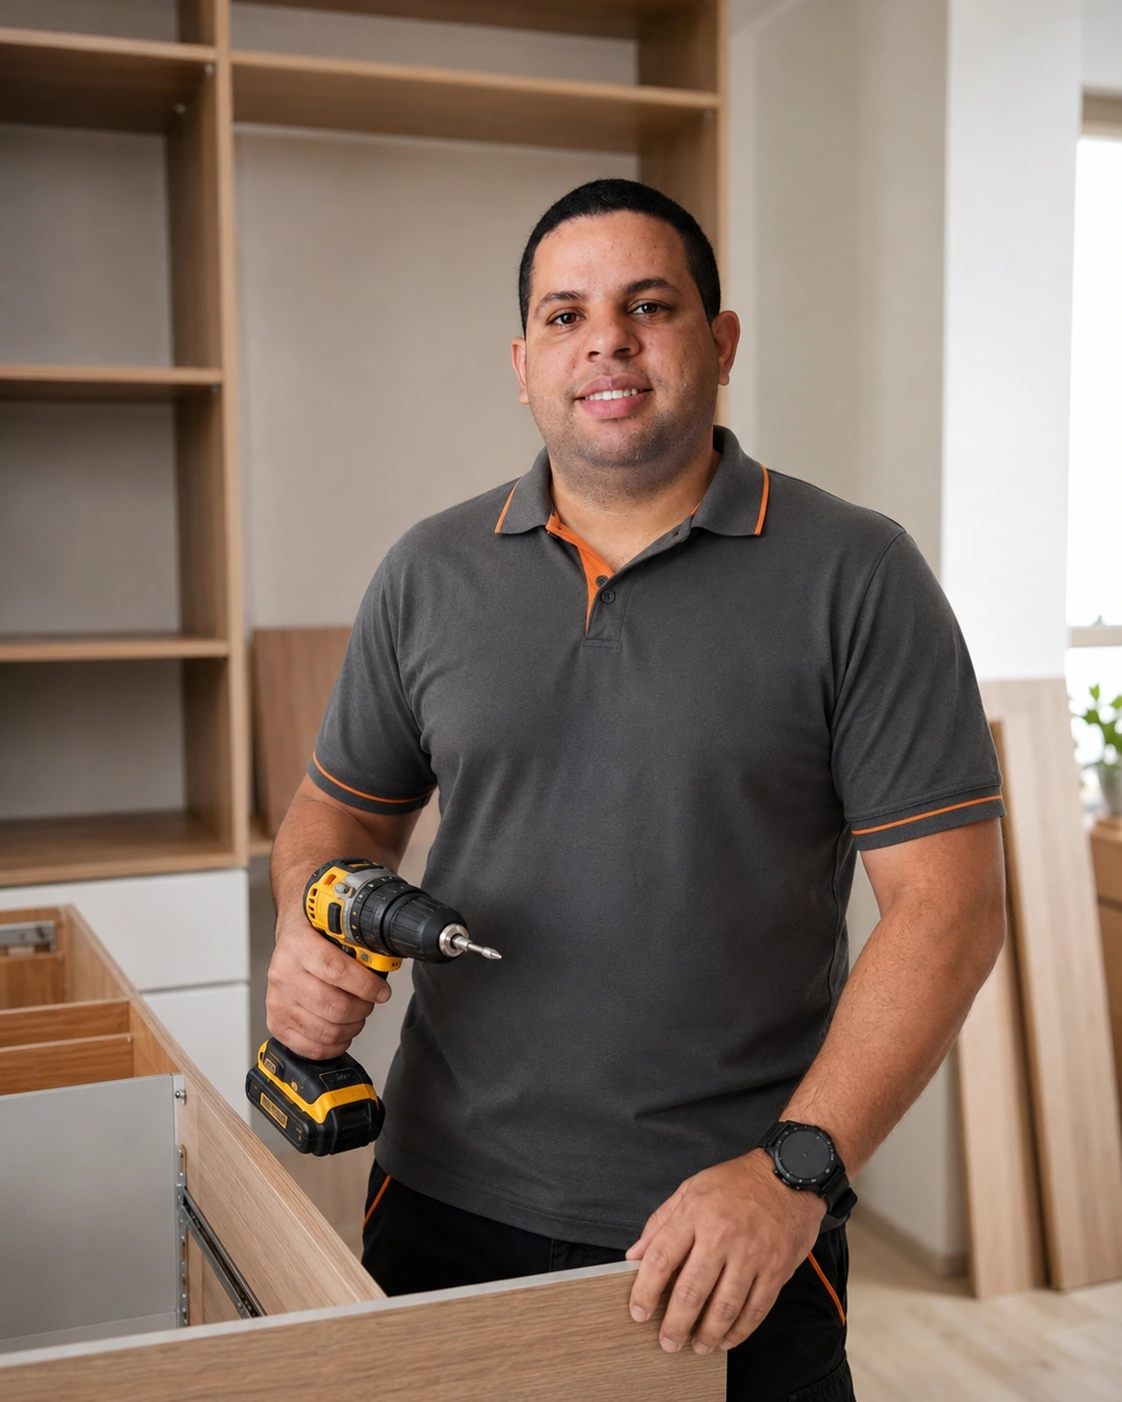
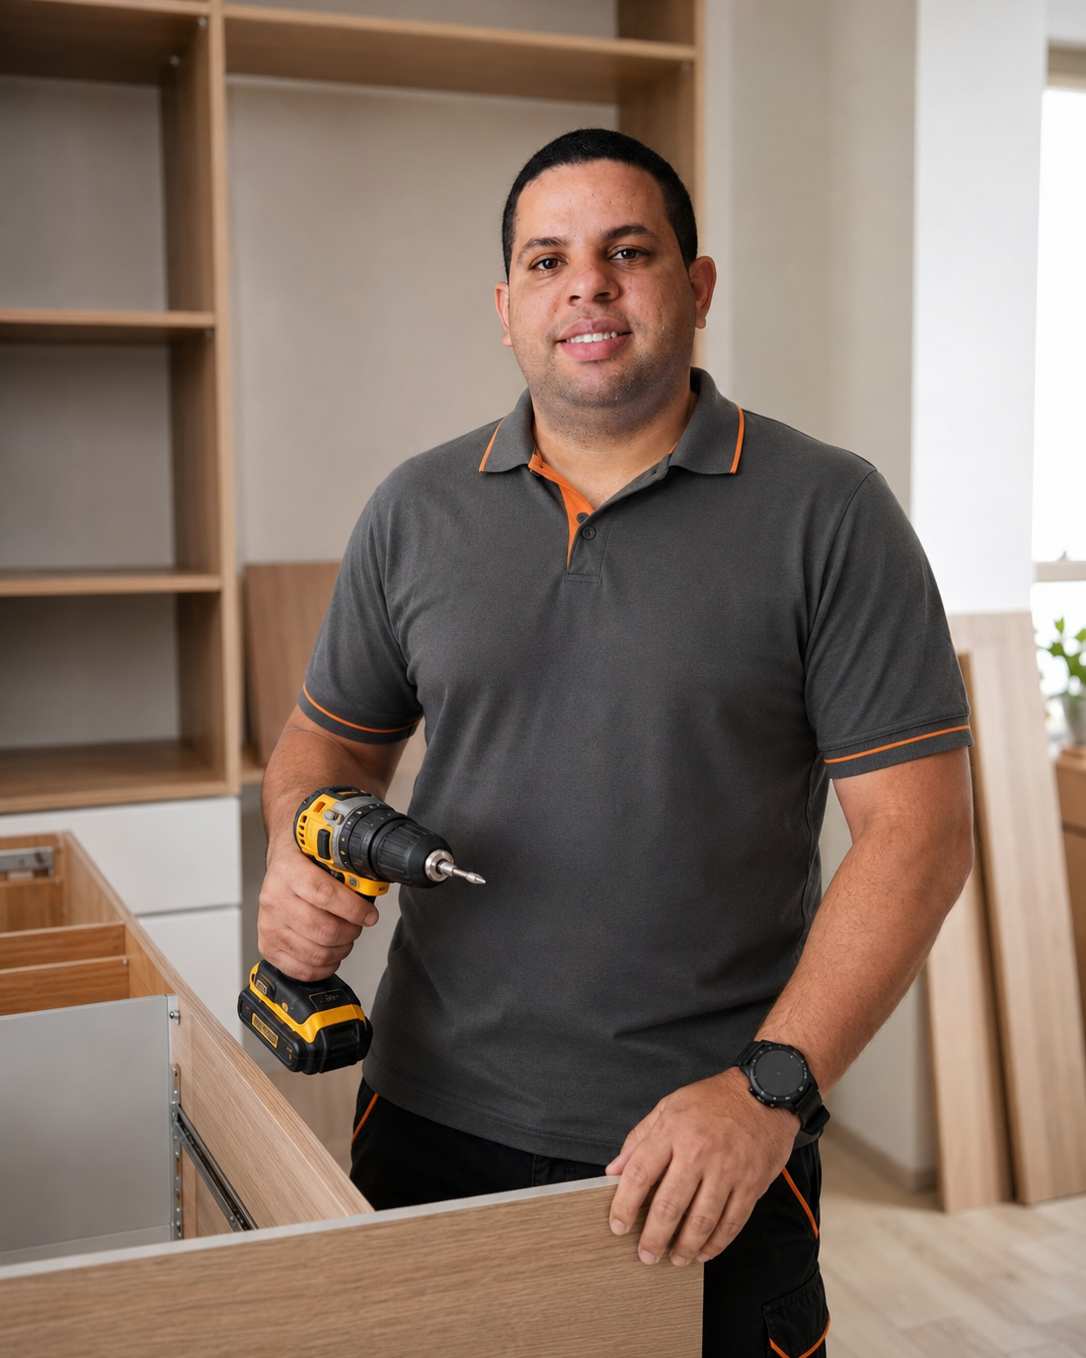
Restaura qualidade integral da hero no desktop (WebP lossless, resolucao nativa) e ajusta meta og:image

diff --git a/index.html b/index.html
@@ -38,8 +38,8 @@
     <meta property="og:type" content="website">
     <meta property="og:url" content="https://2irmaosmontagens.com.br">
     <meta property="og:image" content="https://2irmaosmontagens.com.br/assets/Hero-Desktop.webp">
-    <meta property="og:image:width" content="1122">
-    <meta property="og:image:height" content="1402">
+    <meta property="og:image:width" content="1086">
+    <meta property="og:image:height" content="1358">
     <meta property="og:image:type" content="image/webp">
     <meta property="og:locale" content="pt_BR">
     <meta property="og:site_name" content="Dois Irmãos Montagem de Móveis">
